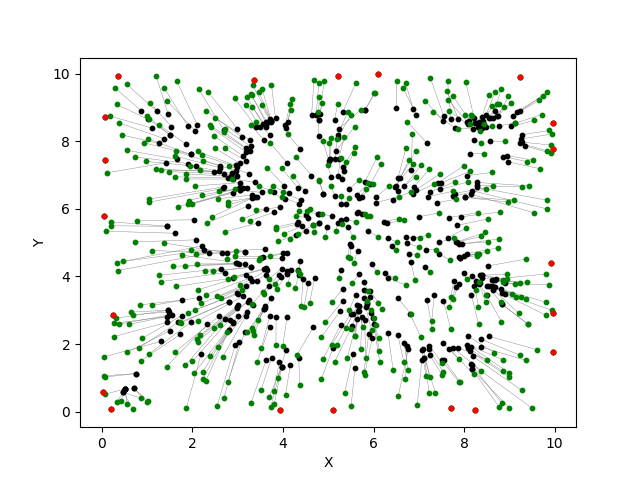
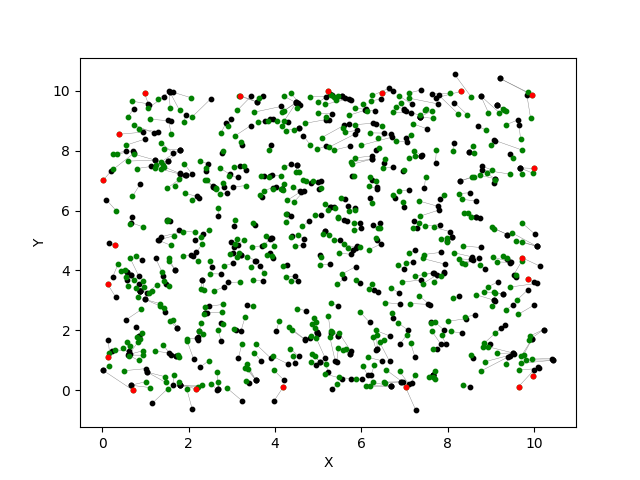
MDS-based algorithm implementation

diff --git a/pythonsource/lab2step3.py b/pythonsource/lab2step3.py
@@ -8,31 +8,56 @@
 import numpy as np
 import scipy.sparse as sps
 import scipy.linalg as linalg
+from scipy.sparse import csr_matrix
+from scipy.sparse.csgraph import shortest_path
 
 
 def mds(n, edgelist):
-    '''    
-    calculate the mds relative location given the edgelist
+   '''    
+   calculate the mds relative location given the edgelist
 
-    Input 
-       -- n: number of nodes in the network
-       -- edgelist: the list of edges, with only the tail and head node id
-    Output
-       -- mds_loc: the estimated relative locations using MDS method
-    '''
+   Input 
+      -- n: number of nodes in the network
+      -- edgelist: the list of edges, with only the tail and head node id
+   Output
+      -- mds_loc: the estimated relative locations using MDS method
+   '''
 
-    ## You should write your own version of this function
-    mds_loc=np.zeros( (n,2)) 
+   ## You should write your own version of this function
+   mds_loc=np.zeros( (n,2)) 
 
-    ## Calculate the shortest paths for all pair of nodes
+   ## Calculate the shortest paths for all pair of nodes
+   # 初始化邻接矩阵
+   adjacency = [[0]*n for _ in range(n)]
+   # 填充邻接矩阵
+   for edge in edgelist:
+      adjacency[(int)(edge[0])][(int)(edge[1])] = 1
+   # 将邻接矩阵转换为稀疏矩阵
+   graph_sparse = csr_matrix(adjacency)
+   # 计算最短路径距离矩阵
+   dist_matrix = shortest_path(csgraph=graph_sparse, directed=False, unweighted=True)
 
+   ## Calculate the matrix Y from shortest path distance
+   # 假设dist_matrix已经定义好，是一个NxN的numpy数组
+   n = dist_matrix.shape[0]
+   D_squared = np.square(dist_matrix)
 
-    ## Calculate the matrix Y from shortest path distance
+   # 对行和列求和
+   row_sum = D_squared.sum(axis=1).reshape(n, 1) / n
+   col_sum = D_squared.sum(axis=0).reshape(1, n) / n
+   total_sum = D_squared.sum() / (n**2)
 
+   # 根据公式计算Y矩阵
+   Y = -0.5 * (D_squared - row_sum - col_sum + total_sum)
 
-    ## SVD decomposition for the matrix Y
+   ## SVD decomposition for the matrix Y
+   # The matrix Y is a symmetric positive semidefinite matrix.
+   U, S, Vh = np.linalg.svd(Y)
 
-
-    ## Get the estimated svd location from matrix Y
-    
-    return mds_loc
+   ## Get the estimated svd location from matrix Y
+   # 取出大于0的奇异值对应的奇异向量
+   positive_singular_values = np.sqrt(S[S > 0])
+   X = U[:, S > 0] * positive_singular_values
+   X = X[:, :2]
+   
+   return X
